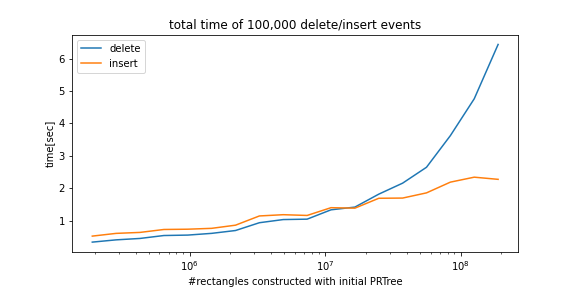
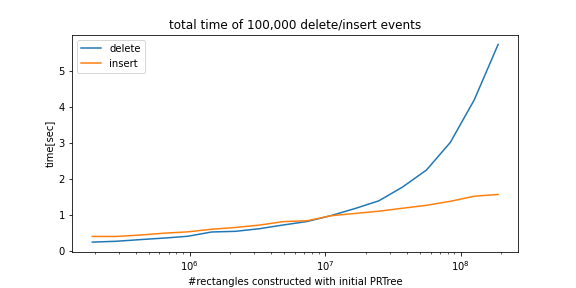
mimalloc adopt

diff --git a/src/prtree.h b/src/prtree.h
@@ -1,4 +1,6 @@
 #pragma once
+#include <mimalloc.h>
+#include <mimalloc-new-delete.h>
 #include <array>
 #include <random>
 #include <vector>
@@ -28,7 +30,7 @@ using std::swap;
 template<class T, class U>
 using pair = std::pair<T, U>;
 template<class T>
-using vec = std::vector<T>;
+using vec = std::vector<T, mi_stl_allocator<T>>;
 static std::mt19937 rand_src(42);
 
 
